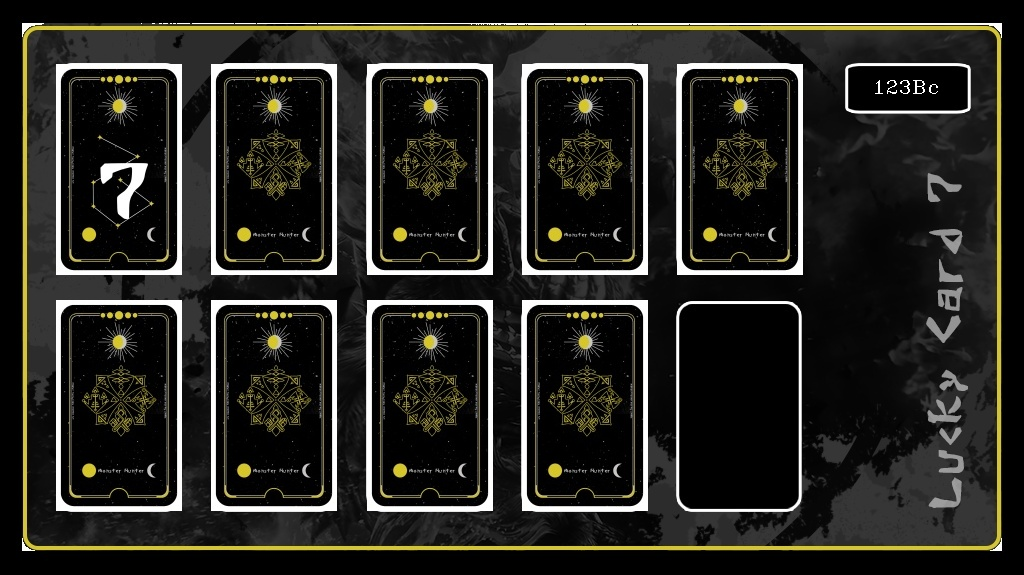
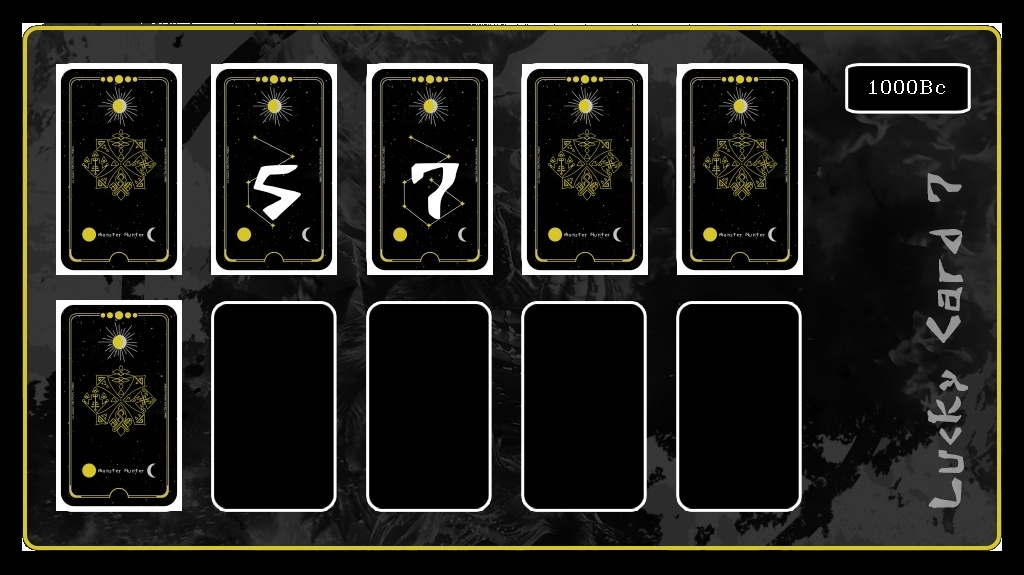
game

diff --git a/cogs/game.py b/cogs/game.py
@@ -183,37 +183,76 @@ class Minigame_Event(commands.Cog):
 
     @commands.command()
     async def lucky7(self, ctx, arg):
+        a = ctx.message.author.id
+        set_up()
+        try:
+            cid = check_disc(a)
+        except:
+            await ctx.send("you are not registered")
+            return
+        char = character(cid)
+        if char.bounty < int(arg):
+            await ctx.send("you dont have enough bounty coin")
+            return
         bg = cv2.imread(CARD_PATH+"\\board.jpg", cv2.IMREAD_UNCHANGED)
         bg = cv2.cvtColor(bg, cv2.COLOR_BGRA2BGR)
         board = put_text(arg, bg)
         brd = board.copy()
-        for i in range(9):
-            brd = card_slot(brd, card_list[9], card_pos(i))
-        cv2.imwrite("board.jpg", brd)
-        await ctx.send(file=discord.File("board.jpg"))
-        await ctx.send("pick one 1-9")
+        remain = 7
+        deck = [3, 4, 5, 6, 7, 8, 9]
+        while True:
+            brd = board.copy()
+            for i in range(remain):
+                brd = card_slot(brd, card_list[9], card_pos(i))
+            cv2.imwrite("board.jpg", brd)
+            await ctx.send(file=discord.File("board.jpg"))
+            await ctx.send(f"pick one 1-{remain}")
 
-        def check(author):
-            def inner_check(message):
-                if message.author != author:
-                    return False
-                else:
-                    try:
-                        x = int(message.content)
-                        if 0 < x < 10:
-                            return True
-                        else:
-                            return False
-                    except:
+            def check(author, remain):
+                def inner_check(message):
+                    if message.author != author:
                         return False
-            return inner_check
-        msg = await self.bot.wait_for('message', check=check(ctx.author))
-        deck = card
-        random.shuffle(deck)
-        choice = int(msg.content) - 1
-        brd = card_slot(brd, card_list[deck[choice]], card_pos(choice))
-        cv2.imwrite("board.jpg", brd)
-        await ctx.send(file=discord.File("board.jpg"))
+                    else:
+                        try:
+                            x = int(message.content)
+                            if 0 < x <= remain:
+                                return True
+                            else:
+                                return False
+                        except:
+                            return False
+                return inner_check
+            msg = await self.bot.wait_for('message', check=check(ctx.author, remain))
+            random.shuffle(deck)
+            choice = int(msg.content) - 1
+            brd = card_slot(brd, card_list[deck[choice]-1], card_pos(choice))
+            cv2.imwrite("board.jpg", brd)
+            await ctx.send(file=discord.File("board.jpg"))
+            if deck[choice] == 9:
+                remain -= 1
+                if remain == 2:
+                    await ctx.send("sorry you lose the game but you didnt lose coin since your insane luck to draw d card 7 times lol")
+                    brd = card_slot(brd, card_list[6], card_pos(deck.index(7)))
+                    cv2.imwrite("board.jpg", brd)
+                    await ctx.send(file=discord.File("board.jpg"))
+                    break
+                deck.remove(9-remain)
+                await ctx.send(f"you got another try with {remain} card\nand you got {int(arg)} bounty coin as bonus for getting **D** card")
+                char.add_bounty(int(arg))
+            elif deck[choice] == 8:
+                await ctx.send(f"you got another try with {remain} card\nand you got {int(arg)*2} bounty coin as bonus for getting **R** card")
+                char.add_bounty(int(arg)*2)
+            elif deck[choice] == 7:
+                await ctx.send(f"congrats you won the game, you win {int(arg)*7} Bounty Coin")
+                char.add_bounty(int(arg)*7)
+                break
+            else:
+                await ctx.send(f"sorry you lose the game, you lose {arg} Bounty Coin")
+                brd = card_slot(brd, card_list[6], card_pos(deck.index(7)))
+                cv2.imwrite("board.jpg", brd)
+                await ctx.send(file=discord.File("board.jpg"))
+                char.set_bounty(char.bounty-int(arg))
+                break
 
     @commands.command()
     async def match(self, ctx, arg):

diff --git a/cogs/char.py b/cogs/char.py
@@ -1,5 +1,6 @@
 import discord
 import random
+from datetime import datetime as dt
 from discord.ext import commands
 from direc import *
 from base import *
@@ -189,8 +190,13 @@ class MHFZ_User_Interactive(commands.Cog):
         set_up()
         arg = check_disc(a)
         char = character(arg)
-        char.boost_on()
-        await ctx.channel.send(f"turn on {char.name} boost")
+        now = int(dt.timestamp(dt.now()))
+        if now >= char.boostcd:
+            char.boost_on()
+            char.set_boostcd(now+(60*60*24*7))
+            await ctx.channel.send(f"turn on {char.name} boost")
+        else:
+            await ctx.send(f"sorry this command is on cooldown for you till <t:{char.boostcd}:R>")
 
     @commands.command()
     async def join_guild(self, ctx, arg1):

diff --git a/base.py b/base.py
@@ -140,6 +140,9 @@ class character:
                 self.gender = 'Male'
             elif s[0] == False:
                 self.gender = 'Female'
+            sql = 'select boostcd from discord where char_id= %s '
+            cur.execute(sql % cid)
+            self.boostcd = cur.fetchone()[0]
         except:
             self.discord = None
             self.bounty = 0
@@ -344,6 +347,10 @@ class character:
                     'rb').read().hex()
         sql1 = '''UPDATE characters SET partner=(decode('%s','hex')) WHERE id= %s '''
         cur.execute(sql1 % (hexb, self.cid))
+
+    def set_boostcd(self, val):
+        cur.execute(
+            f'update discord set boostcd={val} where char_id = {self.cid}')
 
     def get_bounty_champion(self):
         cur.execute(

diff --git a/cogs/board.py b/cogs/board.py
@@ -9,7 +9,7 @@ textd = (121, 44)
 textp = (846, 64)
 
 
-card_list = [1, 2, 3, 4, 5, 6, 7, "d", "r", "f"]
+card_list = [1, 2, 3, 4, 5, 6, 7, "r", "d", "f"]
 card_list = [CARD_PATH+"\\"+str(i)+".jpg" for i in card_list]
 
 
